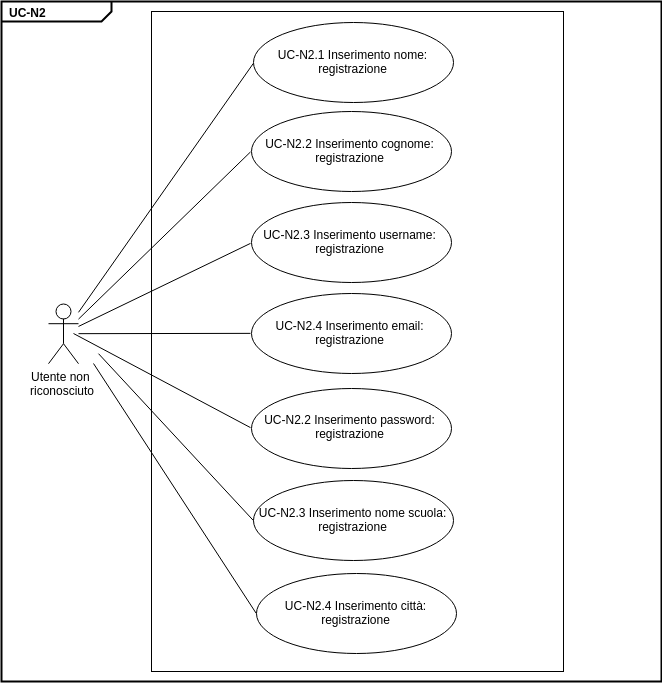
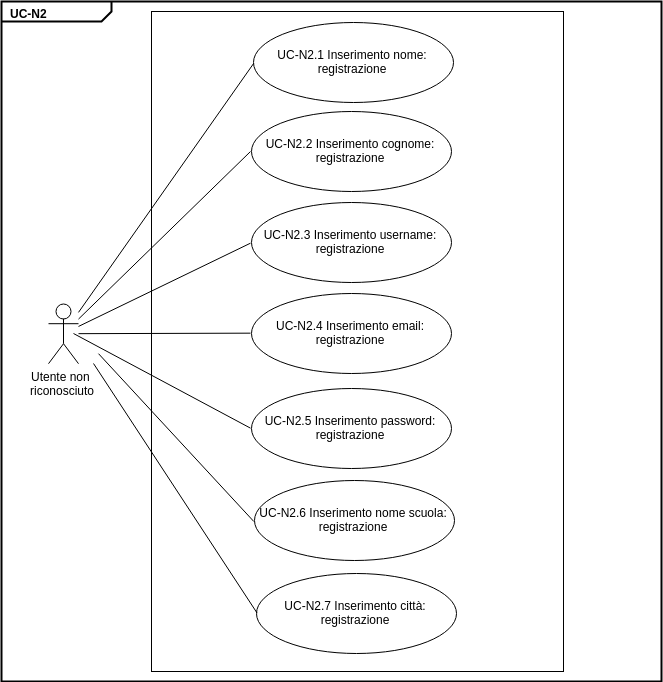
Aggiornati i codici

diff --git a/docs/Analisi_dei_requisiti/cap4.tex b/docs/Analisi_dei_requisiti/cap4.tex
@@ -68,26 +68,24 @@ dove:
 		RDF10 & Il moderatore verifica le credenziali di un utente che richiede la registrazione come insegnante. & UC-M1 \newline Interno\\
 		RDF11 & Il moderatore visualizza una lista di utenti che richiedono la registrazione come insegnante. & UC-M1.1 \newline Interno\\
 		RDF12 & Il moderatore visualizza le credenziali degli utenti che richiedono la registrazione come insegnante. & UC-M1.1.1 \newline Interno\\
-		RDF13 & \textbf{DA ELIMINARE} & UC-M1.2 \newline Interno\\
-		RDF14 & \textbf{DA ELIMINARE} & UC-M1.3 \newline Interno\\
-		RDF15 & \textbf{DA ELIMINARE} & UC-M1.4 \newline Interno\\
-		RDF16 & Il moderatore può visualizzare la lista degli esercizi inseriti nella piattaforma. & UC-M2 \newline Interno\\
-		RDF17 & Il moderatore può visualizzare le informazioni riguardanti un esercizio inserito nella piattaforma. & UC-M2.1 \newline Interno\\
+
+		RDF13 & Il moderatore può visualizzare la lista degli esercizi inseriti nella piattaforma. & UC-M2 \newline Interno\\
+		RDF14 & Il moderatore può visualizzare le informazioni riguardanti un esercizio inserito nella piattaforma. & UC-M2.1 \newline Interno\\
 		RPF6 & Il moderatore può ricercare gli esercizi inserendo la frase o una parte di essa. & UC-M3 \newline Interno\\
 		RPF7 & Il moderatore deve poter eliminare uno qualsiasi degli esercizi inseriti nel sistema. & UC-M4 \newline Interno\\
-		RDF18 & Il moderatore può visualizzare la lista degli utenti iscritti alla piattaforma. & UC-M5 \newline Interno\\
-		RDF19 & Il moderatore deve visualizzare nome e cognome e username dell'utente in lista. & UC-M5.1 \newline Interno\\
+		RDF15 & Il moderatore può visualizzare la lista degli utenti iscritti alla piattaforma. & UC-M5 \newline Interno\\
+		RDF16 & Il moderatore deve visualizzare nome e cognome e username dell'utente in lista. & UC-M5.1 \newline Interno\\
 		RPF8 & Il moderatore può ricercare gli utenti inserendo l'username o una parte di esso. & UC-M6 \newline Interno\\
 		RPF9 & Il moderatore può eliminare un utente iscritto alla piattaforma. & UC-M7 \newline Interno\\
 		RPF10 & Il moderatore può visualizzare la lista delle segnalazioni effettuate dagli utenti. & UC-M8 \newline Interno\\
 		RPF11 & Il moderatore deve visualizzare la frase, la data, l'autore dell'esercizio segnalato e l'autore della segnalazione in lista. & UC-M8.1 \newline Interno\\
 		RPF12 & Il moderatore può eliminare una segnalazione dalla relativa lista. & UC-M9 \newline Interno\\
-		RDF20 & Il moderatore deve poter accedere all'area esercizi. & UC-M10 \newline Interno\\
-		RDF21 & Il moderatore deve poter accedere all'area utenti. & UC-M11 \newline Interno\\
+		RDF17 & Il moderatore deve poter accedere all'area esercizi. & UC-M10 \newline Interno\\
+		RDF18 & Il moderatore deve poter accedere all'area utenti. & UC-M11 \newline Interno\\
 		
-		RDF22 & L'insegnante, accedendo alla sua area del profilo, può visualizzare la lista degli esercizi da lui creati. & UC-I1 \newline Interno\\
-		RDF23 & L'insegnante, accedendo alla sua area del profilo, deve visualizzare la frase e la data di inserimento dell'esercizio inserito. & UC-I1.1 \newline Interno\\
-		RDF24 & L'insegnante può ricercare gli esercizi che ha inserito inserendo la frase o una parte di essa. & UC-I2 \newline Interno\\
+		RDF19 & L'insegnante, accedendo alla sua area del profilo, può visualizzare la lista degli esercizi da lui creati. & UC-I1 \newline Interno\\
+		RDF20 & L'insegnante, accedendo alla sua area del profilo, deve visualizzare la frase e la data di inserimento dell'esercizio inserito. & UC-I1.1 \newline Interno\\
+		RDF21 & L'insegnante può ricercare gli esercizi che ha inserito inserendo la frase o una parte di essa. & UC-I2 \newline Interno\\
 		RPF13 & L'insegnante può modificare una soluzione di un esercizio da lui fornita. & UC-I3 \newline Capitolato\\
 		RPF14 & L'insegnante può eliminare una soluzione di un esercizio da lui fornita. & UC-I4 \newline Interno\\
 		ROF23 & L'insegnante deve poter accedere all'area di inserimento nuovo esercizio. & UC-I5 \newline Interno\\		
@@ -108,46 +106,45 @@ dove:
 		ROF32 & L'insegnante deve poter aggiungere degli esercizi a quelli assegnati ad una classe. & UC-I11 \newline Interno\\
 		ROF33 & L'insegnante deve poter visualizzare la lista delle proprie classi. & UC-I12 \newline Interno\\
 		ROF34 & L'insegnante deve visualizzare il nome, la descrizione, la data di creazione e il numero di iscritti della classe in lista. & UC-I12.1 \newline Interno\\
-		RDF25 & L'insegnante può visualizzare l'area per la gestione delle classi. & UC-I13 \newline Interno\\
+		RDF22 & L'insegnante può visualizzare l'area per la gestione delle classi. & UC-I13 \newline Interno\\
 		ROF35 & L'insegnante deve poter visualizzare la lista degli alunni iscritti ad una delle sue classi. & UC-I14 \newline Interno\\		
 		ROF36 & L'insegnante deve visualizzare il nome, il cognome e l'username dell'alunno in lista iscritto alla classe. & UC-I14.1 \newline Interno\\
 		RPF21 & L'insegnante potrebbe voler visualizzare i progressi degli alunni di una propria classe. & UC-I15 \newline Interno\\
 		ROF37 & L'insegnante deve poter eliminare un alunno dalla lista di quelli iscritti ad una delle proprie classi. & UC-I16 \newline Interno\\
-		RDF26 & L'insegnante deve poter accedere all'area del proprio profilo che riporta gli esercizi inseriti. & UC-I17 \newline Interno\\
+		RDF23 & L'insegnante deve poter accedere all'area del proprio profilo che riporta gli esercizi inseriti. & UC-I17 \newline Interno\\
 
-		RDF27 & L'allievo, accedendo al proprio profilo, potrà visualizzare i dati relativi ai propri progressi. & UC-A1 \newline Capitolato\\		
-		RDF28 & L'allievo può visualizzare la lista delle classi a cui appartiene. & UC-A2 \newline Interno\\
-		RDF29 & L'allievo può visualizzare il nome e la descrizione della classe e il nome e il cognome dell'insegnante che ha creato la classe in lista. & UC-A2.1 \newline Interno\\
-		RDF30 & L'allievo può annullare l'iscrizione ad una classe. & UC-A3 \newline Interno\\
-		RDF31 & L'allievo può visualizzare le informazioni riguardanti una classe a cui appartiene e gli esercizi assegnati. & UC-A4 \newline Interno\\
+		RDF24 & L'allievo, accedendo al proprio profilo, potrà visualizzare i dati relativi ai propri progressi. & UC-A1 \newline Capitolato\\		
+		RDF25 & L'allievo può visualizzare la lista delle classi a cui appartiene. & UC-A2 \newline Interno\\
+		RDF26 & L'allievo può visualizzare il nome e la descrizione della classe e il nome e il cognome dell'insegnante che ha creato la classe in lista. & UC-A2.1 \newline Interno\\
+		RDF27 & L'allievo può annullare l'iscrizione ad una classe. & UC-A3 \newline Interno\\
+		RDF28 & L'allievo può visualizzare le informazioni riguardanti una classe a cui appartiene e gli esercizi assegnati. & UC-A4 \newline Interno\\
 		RPF22 & L'allievo può selezionare un esercizio assegnato. & UC-A5 \newline Interno\\
 
-		RDF32 & Lo sviluppatore può ottenere una lista delle annotazioni di una particolare frase. & UC-S1 \newline Capitolato\\
-		RDF33 & Lo sviluppatore deve poter filtrare i dati trovati durante la ricerca ottenendo una lista di annotazioni. & UC-S1.1 \newline Capitolato\\
-		RDF34 & Lo sviluppatore deve visualizzare la data, l'username dell'autore dell'annotazione in lista e l'ID del relativo esercizio. & UC-S1.2 \newline Capitolato\\
-		RDF35 & Lo sviluppatore può impostare un filtro temporale per la ricerca delle annotazioni. & UC-S1.1.1 \newline Interno\\
-		RDF36 & Lo sviluppatore deve poter includere dalla ricerca di annotazioni solo uno o più utenti. & UC-S1.1.2 \newline Capitolato\\
-		RDFXX & \textbf{NUOVO} Lo sviluppatore può impostare un filtro per ruolo per la ricerca delle annotazioni. & UC-S1.1.3 \newline \textit{Verbale Esterno 2019-04-26 (N)}\\
-		RDFXX & \textbf{NUOVO} Lo sviluppatore può impostare un filtro per valutazioni per la ricerca delle annotazioni. & UC-S1.1.4 \newline Interno\\
-		RDF37 & Lo sviluppatore durante l'inclusione di un utente deve poter cercare degli utenti & UC-S1.1.2.1 \newline Interno\\		
-		RDF38 & Lo sviluppatore visualizzerà un messaggio di errore nel caso inserisca una data non valida durante il filtraggio di annotazioni in base temporale. & UC-S2 \newline Interno\\
+		RDF29 & Lo sviluppatore può ottenere una lista delle annotazioni di una particolare frase. & UC-S1 \newline Capitolato\\
+		RDF30 & Lo sviluppatore deve poter filtrare i dati trovati durante la ricerca ottenendo una lista di annotazioni. & UC-S1.1 \newline Capitolato\\
+		RDF31 & Lo sviluppatore deve visualizzare la data, l'username dell'autore dell'annotazione in lista e l'ID del relativo esercizio. & UC-S1.2 \newline Capitolato\\
+		RDF32 & Lo sviluppatore può impostare un filtro temporale per la ricerca delle annotazioni. & UC-S1.1.1 \newline Interno\\
+		RDF33 & Lo sviluppatore deve poter includere dalla ricerca di annotazioni solo uno o più utenti. & UC-S1.1.2 \newline Capitolato\\
+		RDF34 & \textbf{NUOVO} Lo sviluppatore può impostare un filtro per ruolo per la ricerca delle annotazioni. & UC-S1.1.3 \newline Interno\\
+		RDF35 & \textbf{NUOVO} Lo sviluppatore può impostare un filtro per valutazioni per la ricerca delle annotazioni. & UC-S1.1.4 \newline Interno\\
+		RDF36 & Lo sviluppatore durante l'inclusione di un utente deve poter cercare degli utenti & UC-S1.1.2.1 \newline Interno\\		
+		RDF37 & Lo sviluppatore visualizzerà un messaggio di errore nel caso inserisca una data non valida durante il filtraggio di annotazioni in base temporale. & UC-S2 \newline Interno\\
 		RPF23 & Lo sviluppatore deve poter visualizzare i dati relativi ad una particolare annotazione. & UC-S3 \newline Capitolato\\
 		RPF24 & Lo sviluppatore deve poter visualizzare lo storico delle annotazioni. & UC-S4 \newline Capitolato\\
 		RPF25 & Lo sviluppatore può ordinare la lista dei risultati ottenuti dalla ricerca tramite determinati parametri. & UC-S5 \newline Interno\\	
 		ROF38 & Lo sviluppatore deve poter scaricare un file contenente i dati relativi agli esercizi ottenuti con la ricerca. & UC-S6 \newline Capitolato\\
 		ROF39 & Lo sviluppatore deve poter scaricare un file contenente i dati relativi agli esercizi ottenuti con la ricerca in formato \texttt{.txt}. & UC-S7 \newline Capitolato\\
-		RDF39 & Lo sviluppatore deve poter scaricare un file contenente i dati relativi agli esercizi ottenuti con la ricerca in formato \texttt{.csv}. & UC-S8 \newline Capitolato\\
-		RDF40 & Lo sviluppatore deve poter scaricare un file contenente i dati relativi agli esercizi ottenuti con la ricerca in formato \texttt{.json}. & UC-S9 \newline Capitolato\\
-		RDF41 & \textbf{DA ELIMINARE} & UC-S10 \newline Interno\\		
+		RDF38 & Lo sviluppatore deve poter scaricare un file contenente i dati relativi agli esercizi ottenuti con la ricerca in formato \texttt{.csv}. & UC-S8 \newline Capitolato\\
+		RDF39 & Lo sviluppatore deve poter scaricare un file contenente i dati relativi agli esercizi ottenuti con la ricerca in formato \texttt{.json}. & UC-S9 \newline Capitolato\\
 		RPF26 & Lo sviluppatore può visualizzare le informazioni relative ad un dataset. & UC-S11 \newline Interno\\
-		RDF42 & Lo sviluppatore può visualizzare la lista dei modelli disponibili. & UC-S12 \newline Interno\\
-		RDF43 & Lo sviluppatore deve visualizzare il nome e la lingua del modello in lista. & UC-S12.1 \newline Interno\\
+		RDF40 & Lo sviluppatore può visualizzare la lista dei modelli disponibili. & UC-S12 \newline Interno\\
+		RDF41 & Lo sviluppatore deve visualizzare il nome e la lingua del modello in lista. & UC-S12.1 \newline Interno\\
 		RPF27 & Lo sviluppatore deve poter scaricare un modello. & UC-S13 \newline Capitolato\\
 		RPF28 & Lo sviluppatore può visualizzare informazioni riguardanti i modelli disponibili nella piattaforma. & UC-S14 \newline Interno\\
 		RPF29 & Lo sviluppatore deve poter creare un modello tramite la piattaforma. & UC-S15 \newline Capitolato\\ 
-		RDF44 & Lo sviluppatore visualizzerà un messaggio di errore se inserirà un dataset in un formato errato. & UC-S16 \newline Interno\\
+		RDF42 & Lo sviluppatore visualizzerà un messaggio di errore se inserirà un dataset in un formato errato. & UC-S16 \newline Interno\\
 		RPF30 & Lo sviluppatore può cambiare modello utilizzato dal software di apprendimento automatico. & UC-S17 \newline Interno\\
-		RDFXX & \textbf{NUOVO}Lo sviluppatore visualizzerà un messaggio di errore se indicherà un'intervallo di voti errato. & UC-S18 \newline Interno\\
+		RDF43 & \textbf{NUOVO}Lo sviluppatore visualizzerà un messaggio di errore se indicherà un'intervallo di voti errato. & UC-S18 \newline Interno\\
 		\hline
 		\caption{Tabella dei requisiti funzionali}
 \end{tabularx}

diff --git a/docs/Analisi_dei_requisiti/tabella_riepilogo.tex b/docs/Analisi_dei_requisiti/tabella_riepilogo.tex
@@ -47,6 +47,7 @@
 				&	RDF10 \\
 				&	RDF11 \\
 				&	RDF12 \\
+
 				&	RDF13 \\
 				&	RDF14 \\
 				&	RDF15 \\
@@ -58,22 +59,20 @@
 				&	RDF21 \\
 				&	RDF22 \\
 				&	RDF23 \\
-				&	RDF24 \\
 				&	RDF25 \\
 				&	RDF26 \\
+				&	RDF27 \\
 				&	RDF28 \\
-				&	RDF29 \\
-				&	RDF30 \\
-				&	RDF31 \\
-				&	RDF35 \\
-				& RDFXX \\%Filtraggio in base alla valutazione
+				&	RDF32 \\
+				& RDF34\\%Filtraggio in base al ruolo
+				& RDF35 \\%Filtraggio in base alla valutazione
+				&	RDF36 \\
 				&	RDF37 \\
-				&	RDF38 \\
+
+				&	RDF40 \\
 				&	RDF41 \\
 				&	RDF42 \\
-				&	RDF43 \\
-				&	RDF44 \\
-				& RDFXX \\%Visualizzazione errore
+				& RDF43 \\%Visualizzazione errore
 				&	RPF1 \\
 				&	RPF2 \\
 				&	RPF3 \\
@@ -118,13 +117,13 @@
 				\rowcolor{LightGray} &	ROF25 \\
 				\rowcolor{LightGray} &	ROF38 \\
 				\rowcolor{LightGray} &	ROF39 \\
-				\rowcolor{LightGray} &	RDF27 \\
-				\rowcolor{LightGray} &	RDF32 \\
+				\rowcolor{LightGray} &	RDF24 \\
+				\rowcolor{LightGray} &	RDF29 \\
+				\rowcolor{LightGray} &	RDF30 \\
+				\rowcolor{LightGray} &	RDF31 \\
 				\rowcolor{LightGray} &	RDF33 \\
-				\rowcolor{LightGray} &	RDF34 \\
-				\rowcolor{LightGray} &	RDF36 \\
+				\rowcolor{LightGray} &	RDF38 \\
 				\rowcolor{LightGray} &	RDF39 \\
-				\rowcolor{LightGray} &	RDF40 \\
 				\rowcolor{LightGray} &	RPF13 \\
 				\rowcolor{LightGray} &	RPF23 \\
 				\rowcolor{LightGray} &	RPF24 \\
@@ -139,7 +138,6 @@
 				\rowcolor{LightGray} &	RDQ2 \\
 				\rowcolor{LightGray} &	RDQ4 \\
 				\rowcolor{LightGray} &	RDQ5 \\
-		\textit{Verbale Esterno 2019-04-26 (N)} & RDFXX\\%Filtraggio in base al ruolo
 		UC-G1 & ROF1\\
 		\rowcolor{LightGray}
 		UC-G2 & ROF2\\
@@ -199,15 +197,15 @@
 		UC-M1.1 & RDF11\\
 		UC-M1.1.1 & RDF12\\
 		\rowcolor{LightGray}
-		UC-M2 & RDF16 \\
+		UC-M2 & RDF13 \\
 		\rowcolor{LightGray}
-		UC-M2.1 & RDF17 \\
+		UC-M2.1 & RDF14 \\
 		UC-M3 & RPF6 \\
 		\rowcolor{LightGray}
 		UC-M4 & RPF7\\
-		UC-M5 & RDF18 \\
+		UC-M5 & RDF15 \\
 		\rowcolor{LightGray}
-		UC-M5.1 & RDF19 \\
+		UC-M5.1 & RDF16 \\
 		UC-M6 & RPF8 \\
 		\rowcolor{LightGray}
 		UC-M7 & RPF9 \\
@@ -216,13 +214,13 @@
 		UC-M8.1 & RPF11\\
 		UC-M9 & RPF12\\
 		\rowcolor{LightGray}
-		UC-M10 & RDF20\\
-		UC-M11 & RDF21\\
+		UC-M10 & RDF17\\
+		UC-M11 & RDF18\\
 		\rowcolor{LightGray}
-		UC-I1 & RDF22 \\
-		UC-I1.1 & RDF23 \\
+		UC-I1 & RDF19 \\
+		UC-I1.1 & RDF20 \\
 		\rowcolor{LightGray}
-		UC-I2 & RDF24 \\
+		UC-I2 & RDF21 \\
 		UC-I3 & RPF13 \\
 		\rowcolor{LightGray}
 		UC-I4 & RPF14 \\
@@ -249,7 +247,7 @@
 		UC-I12 & ROF33 \\
 		\rowcolor{LightGray}
 		UC-I12.1 & ROF34 \\
-		UC-I13 & RDF25 \\
+		UC-I13 & RDF22 \\
 		\rowcolor{LightGray}
 		UC-I14 & ROF35 \\
 		UC-I14.1 & ROF36 \\
@@ -257,33 +255,33 @@
 		UC-I15 & RPF21 \\
 		UC-I16 & ROF37 \\
 		\rowcolor{LightGray}
-		UC-I17 & RDF26\\
+		UC-I17 & RDF23\\
 		UC-I18 & RPF18\\
 		\rowcolor{LightGray}
 		UC-I18.1 & RPF19 \\
 		UC-I19 & RPF20 \\
-		UC-A1 & RDF27\\
+		UC-A1 & RDF24\\
 		\rowcolor{LightGray}
-		UC-A2 & RDF28 \\
-		UC-A2.1 & RDF29 \\
+		UC-A2 & RDF25 \\
+		UC-A2.1 & RDF26 \\
 		\rowcolor{LightGray}
-		UC-A3 & RDF30\\
-		UC-A4 & RDF31 \\
+		UC-A3 & RDF27\\
+		UC-A4 & RDF28 \\
 		\rowcolor{LightGray}
 		UC-A5 & RPF22\\
-		UC-S1 & RDF32 \\
+		UC-S1 & RDF29 \\
 		\rowcolor{LightGray}
-		UC-S1.1 & RDF33\\
-		UC-S1.1.1 & RDF34\\
+		UC-S1.1 & RDF30\\
+		UC-S1.1.1 & RDF31\\
 		\rowcolor{LightGray}
-		UC-S1.1.2 & RDF35\\
-		UC-S1.1.3 & RDFXX\\%Filtraggio in base al ruolo
+		UC-S1.1.2 & RDF32\\
+		UC-S1.1.3 & RDF34\\%Filtraggio in base al ruolo
 		\rowcolor{LightGray}
-		UC-S1.1.4 & RDFXX\\%Filtraggio in base alla valutazione
-		UC-S1.1.2.1 & RDF36\\
+		UC-S1.1.4 & RDF35\\%Filtraggio in base alla valutazione
+		UC-S1.1.2.1 & RDF33\\
 		\rowcolor{LightGray}
-		UC-S1.2 & RDF37\\
-		UC-S2 & RDF38\\
+		UC-S1.2 & RDF36\\
+		UC-S2 & RDF37\\
 		\rowcolor{LightGray}
 		UC-S3 & RPF23\\
 		UC-S4 & RPF24\\
@@ -292,23 +290,23 @@
 		UC-S6 & ROF38 \\
 		\rowcolor{LightGray}
 		UC-S7 & ROF39 \\
-		UC-S8 & RDF39 \\
+		UC-S8 & RDF38 \\
 		\rowcolor{LightGray}
-		UC-S9 & RDF40 \\
+		UC-S9 & RDF39 \\
 		\rowcolor{LightGray}
 		UC-S11 & RPF26 \\
-		UC-S12 & RDF42 \\
+		UC-S12 & RDF40 \\
 		\rowcolor{LightGray}
-		UC-S12.1 & RDF43 \\
+		UC-S12.1 & RDF41 \\
 		UC-S13 & RPF27 \\
 		\rowcolor{LightGray}
 		UC-S14 & RPF28 \\
 		UC-S15 & RPF29 \\
 		\rowcolor{LightGray} 
-		UC-S16 & RDF44\\
+		UC-S16 & RDF42\\
 		UC-S17 & RPF30\\
 		\rowcolor{LightGray}		
-		UC-S18 & RDFXX\\%Visualizzazione Errore
+		UC-S18 & RDF43\\%Visualizzazione Errore
 		\hline
 		\caption{Tabella di tracciamento: fonti-requisiti}
 \end{longtable}
@@ -394,51 +392,51 @@
 		\rowcolor{LightGray}
 		RDF12 & UC-M1.1.1 \\
 		\rowcolor{LightGray}
-		RDF16 & UC-M2 \\
-		RDF17 & UC-M2.1 \\
+		RDF13 & UC-M2 \\
+		RDF14 & UC-M2.1 \\
 		\rowcolor{LightGray}
-		RDF18 & UC-M5 \\
-		RDF19 & UC-M5.1 \\
+		RDF15 & UC-M5 \\
+		RDF16 & UC-M5.1 \\
 		\rowcolor{LightGray}	
-		RDF20 & UC-M10\\
-		RDF21 & UC-M11\\
+		RDF17 & UC-M10\\
+		RDF18 & UC-M11\\
 		\rowcolor{LightGray}
-		RDF22 & UC-I1\\
-		RDF23 & UC-I1.1\\
+		RDF19 & UC-I1\\
+		RDF20 & UC-I1.1\\
 		\rowcolor{LightGray}
-		RDF24 & UC-I2 \\
-		RDF25 & UC-I13 \\
+		RDF21 & UC-I2 \\
+		RDF22 & UC-I13 \\
 		\rowcolor{LightGray}
-		RDF26 & UC-I17\\
-		RDF27 & UC-A1\\
+		RDF23 & UC-I17\\
+		RDF24 & UC-A1\\
 		\rowcolor{LightGray}
-		RDF28 & UC-A2\\
-		RDF29 & UC-A2.1\\
+		RDF25 & UC-A2\\
+		RDF26 & UC-A2.1\\
 		\rowcolor{LightGray}
-		RDF30 & UC-A3\\
-		RDF31 & UC-A4\\
+		RDF27 & UC-A3\\
+		RDF28 & UC-A4\\
 		\rowcolor{LightGray}
-		RDF32 & UC-S1\\
-		RDF33 & UC-S1.1\\
+		RDF29 & UC-S1\\
+		RDF30 & UC-S1.1\\
 		\rowcolor{LightGray}
-		RDF34 & UC-S1.2\\
-		RDF35 & UC-S1.1.1\\
+		RDF31 & UC-S1.2\\
+		RDF32 & UC-S1.1.1\\
 		\rowcolor{LightGray}
-		RDF36 & UC-S1.1.2\\
-		RDFXX & UC-S1.1.3\\%Filtraggio in base al ruolo
-		RDFXX & UC-S1.1.4\\		%Filtraggio in base alla valutazione
-		RDF37 & UC-S1.1.2.1 \\
+		RDF33 & UC-S1.1.2\\
+		RDF34 & UC-S1.1.3\\%Filtraggio in base al ruolo
+		RDF35 & UC-S1.1.4\\		%Filtraggio in base alla valutazione
+		RDF36 & UC-S1.1.2.1 \\
 		\rowcolor{LightGray}
-		RDF38 & UC-S2\\
-		RDF39 & UC-S8\\
+		RDF37 & UC-S2\\
+		RDF38 & UC-S8\\
 		\rowcolor{LightGray}
-		RDF40 & UC-S9\\
+		RDF39 & UC-S9\\
 		\rowcolor{LightGray}
-		RDF42 & UC-S12 \\
-		RDF43 & UC-S12.1 \\
+		RDF40 & UC-S12 \\
+		RDF41 & UC-S12.1 \\
 		\rowcolor{LightGray}
-		RDF44 & UC-S16\\
-		RDFXX & UC-S18\\		%Visualizzazione errore
+		RDF42 & UC-S16\\
+		RDF43 & UC-S18\\		%Visualizzazione errore
 		RPF1 & UC-G3.1\\
 		\rowcolor{LightGray}
 		RPF2 & UC-G3.2\\
